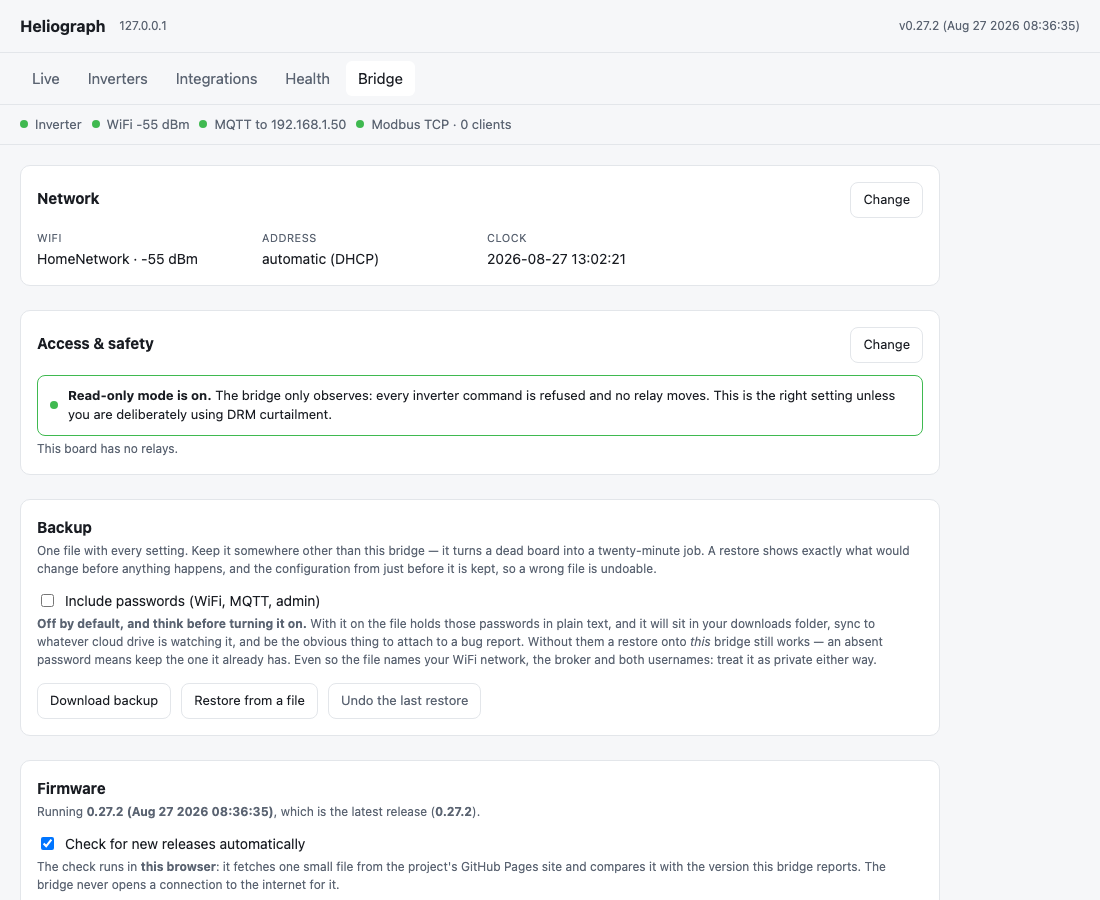
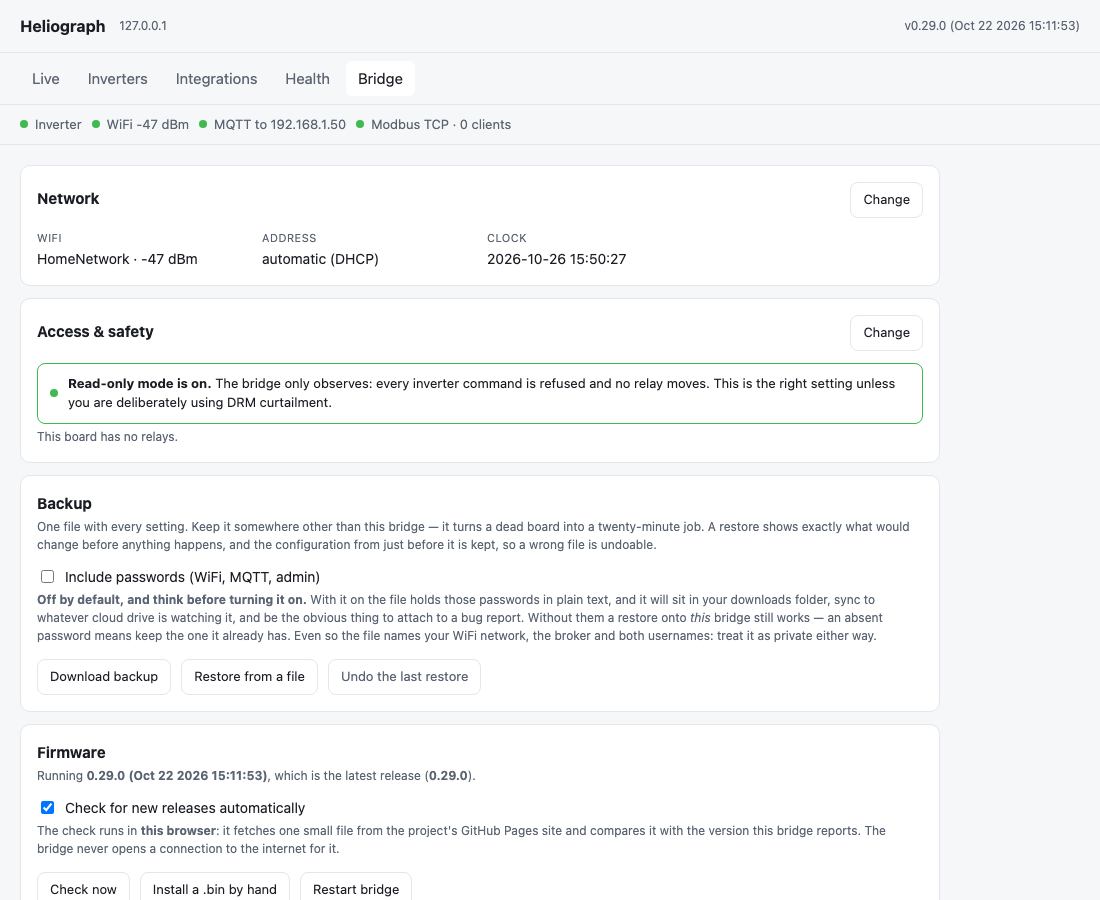
tools: the screenshot of a working bridge showed it broken
make_screenshots.py captured six flat endpoints and said in a comment that the
page GETs exactly those. It does not. The Inverters tab GETs /api/v1/devices and
then three paths under every device in that listing.

With those missing the stub answered 404, the tab saw no devices, and rendered a
healthy bridge as "0 inverters polled of 1 configured" under a heading reading
"Not every configured inverter started", followed by the whole wiring
troubleshooting panel: A and B swapped, two inverters on one address,
termination in the wrong place. docs/images/inverters.png has shown that in the
README since the day it was committed. The bridge it was shot from was polling
an inverter at the time, and the Live tab in the same run shows it.

The ids in that listing are bare strings in a list, where sanitise() has no key
to match on and passes them through. A serial-bearing device id would therefore
have reached audit(), which refuses the whole capture -- so the missing endpoint
was also hiding a capture that would have failed on anyone else's hardware. The
id rule is now its own function and is applied to the listing, to the keys the
payloads are stored under, and to the payloads themselves, so all three agree.

Screenshots regenerated from a live 0.29.0 bridge. inverters.png now shows one
inverter polled, its driver, model, shape and support level.

diff --git a/tools/make_screenshots.py b/tools/make_screenshots.py
@@ -43,9 +43,24 @@ ROOT = pathlib.Path(__file__).resolve().parent.parent
 ASSET = ROOT / "src/web/assets/index_html.h"
 FIXTURE = ROOT / "docs/images/fixture.json"
 
-# Endpoint -> filename stem. The page GETs exactly these; anything else it asks for gets a 404,
-# which is what a bridge with the feature switched off would answer anyway.
-ENDPOINTS = ["status", "config", "diagnostics", "drivers", "discovery", "capture"]
+# The flat endpoints the page GETs. The Inverters tab also GETs /api/v1/devices and three paths
+# UNDER each device it finds there; capture() adds those, because they depend on the listing.
+#
+# Anything not captured gets a 404, which is what a bridge with the feature switched off would
+# answer. That is fine for a feature nobody configured and wrong for one that is running: with
+# the per-device paths missing, the Inverters tab rendered a healthy bridge as "0 inverters
+# polled of 1 configured" and drew the whole wiring-troubleshooting panel. docs/images/
+# inverters.png showed exactly that, in the README, from the day it was committed until
+# 2026-10-26.
+ENDPOINTS = [
+    "status",
+    "config",
+    "diagnostics",
+    "drivers",
+    "discovery",
+    "capture",
+    "devices",
+]
 
 # data-t value -> output file. Tabs are switched by CLICK, not by URL, so each shot navigates to
 # the same page and clicks its way there.
@@ -83,6 +98,17 @@ def sanitise(payload):
     return payload
 
 
+def _device_id(value: str) -> str:
+    """A device id with any serial-shaped tail replaced.
+
+    Shape kept -- driver-SERIAL -- because the id is what MQTT topics and the Modbus unit
+    mapping are keyed on, and a reader needs to recognise the form. Its own function because
+    the ids also appear as BARE STRINGS in /api/v1/devices, where there is no key to match on
+    and sanitise() would otherwise pass them straight through.
+    """
+    return re.sub(r"[A-Za-z0-9]{8,}$", "0000000001", value)
+
+
 def _field(key: str, value):
     if isinstance(value, (dict, list)):
         return sanitise(value)
@@ -106,9 +132,7 @@ def _field(key: str, value):
         # come from the same MAC and a reader who sees them disagree learns something false.
         if value.startswith("heliograph-"):
             return "heliograph-a1b2c3"
-        # Shape kept -- driver-SERIAL -- because the id is what MQTT topics and the Modbus unit
-        # mapping are keyed on, and a reader needs to recognise the form.
-        return re.sub(r"[A-Za-z0-9]{8,}$", "0000000001", value)
+        return _device_id(value)
     if re.fullmatch(r"(\d{1,3}\.){3}\d{1,3}", value):
         return "192.168.1.50"
     return value
@@ -146,18 +170,36 @@ def audit(payload: dict) -> list[str]:
     return found
 
 
+def _fetch(host: str, name: str):
+    url = f"http://{host}/api/v1/{name}"
+    try:
+        with urllib.request.urlopen(url, timeout=10) as response:
+            return json.load(response)
+    except (urllib.error.URLError, json.JSONDecodeError, TimeoutError) as exc:
+        # Recorded as absent rather than fatal: a bridge with no capture stored, or discovery
+        # never run, legitimately has nothing to say and the page renders that state fine.
+        print(f"  {name}: not captured ({exc})")
+        return None
+
+
 def capture(host: str) -> dict:
-    out = {}
+    out, raw = {}, {}
     for name in ENDPOINTS:
-        url = f"http://{host}/api/v1/{name}"
-        try:
-            with urllib.request.urlopen(url, timeout=10) as response:
-                out[name] = sanitise(json.load(response))
-        except (urllib.error.URLError, json.JSONDecodeError, TimeoutError) as exc:
-            # Recorded as absent rather than fatal: a bridge with no capture stored, or discovery
-            # never run, legitimately has nothing to say and the page renders that state fine.
-            print(f"  {name}: not captured ({exc})")
-            out[name] = None
+        raw[name] = _fetch(host, name)
+        out[name] = sanitise(raw[name]) if raw[name] is not None else None
+
+    # The listing carries bare id strings, which sanitise() cannot reach: there is no key on a
+    # list element. Rewritten here so that the ids the page reads, the keys it then asks for,
+    # and the ids inside each payload all agree -- and so a serial-bearing id cannot reach the
+    # committed fixture, where audit() would refuse the whole capture.
+    real_ids = (raw.get("devices") or {}).get("devices", [])
+    if real_ids:
+        out["devices"] = {"devices": [_device_id(i) for i in real_ids]}
+    for real_id in real_ids:
+        for leaf in ("", "/measurements", "/capabilities"):
+            payload = _fetch(host, f"devices/{real_id}{leaf}")
+            key = f"devices/{_device_id(real_id)}{leaf}"
+            out[key] = sanitise(payload) if payload is not None else None
     return out
 
 
